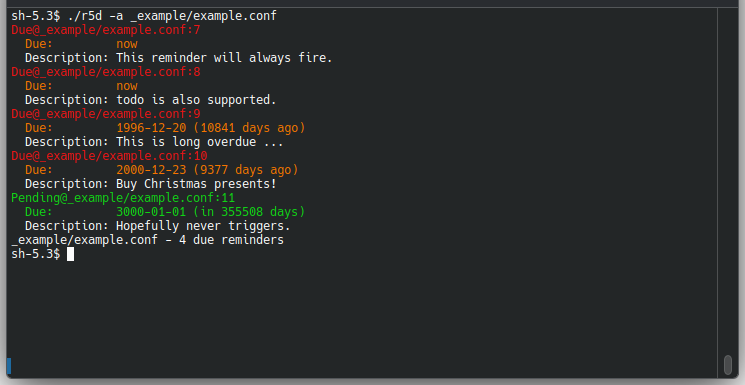
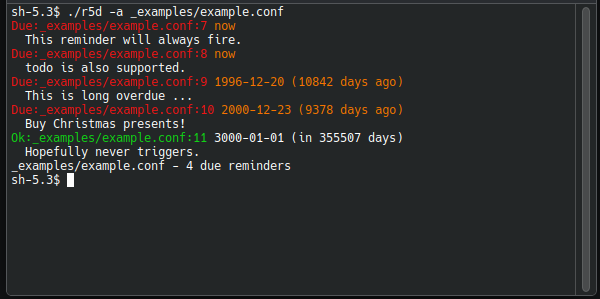
refactor: Shift internal file handling and output
Move the file reading into lib.rs and remove the ignore_binary
function while doing so. Also shift the print function to lib.rs and
change the output format to be more compact.

Changed region(s): [[0.0, 0.0, 1.0, 1.0]]

diff --git a/src/main.rs b/src/main.rs
@@ -1,19 +1,14 @@
 use std::{
-    env, fs,
+    env,
     io::{self},
 };
 
-use r5d::{get_files, is_directory, search_reminders};
+use r5d::{file_search_reminders, get_files, is_directory};
 
-const ANSI_RED: &str = "\u{001b}[31m";
-const ANSI_YELLOW: &str = "\u{001b}[33m";
-const ANSI_GREEN: &str = "\u{001b}[32m";
-const ANSI_RESET: &str = "\u{001b}[0m";
 /* Program configuration */
 struct Config {
     paths: Vec<String>,    // files and directories that should be processed
     recursive: bool,       // search directories recursively
-    ignore_binary: bool,   // Ignore UTF-8 encoding errors (i.e. binary files)
     ignore_noremind: bool, // Ignore the !noremind flag in file
     show_all: bool,        // Show all reminders
 }
@@ -23,7 +18,6 @@ impl Config {
         Config {
             paths: Vec::new(),
             recursive: false,
-            ignore_binary: false,
             ignore_noremind: false,
             show_all: false,
         }
@@ -50,12 +44,7 @@ fn main() {
     }
 
     for filename in filenames.iter() {
-        let dues = process(
-            &filename,
-            config.ignore_binary,
-            config.ignore_noremind,
-            config.show_all,
-        );
+        let dues = process(&filename, config.ignore_noremind, config.show_all);
 
         if dues < 0 {
             // Ignore
@@ -85,46 +74,29 @@ fn main() {
     }
 }
 
-fn process(filename: &str, ignore_binary: bool, ignore_noremind: bool, show_all: bool) -> i32 {
+fn process(filename: &str, ignore_noremind: bool, show_all: bool) -> i32 {
     let mut rings = 0;
-    let contents = match fs::read_to_string(filename) {
-        Ok(contents) => contents,
-        Err(err) => {
-            if ignore_binary && err.kind() == io::ErrorKind::InvalidData {
-                eprintln!("{filename} is not valid UTF-8");
-                return -1;
-            } else {
-                eprintln!("error reading file {filename}");
-                std::process::exit(1);
-            }
-        }
-    };
-    let reminders = match search_reminders(&contents, ignore_noremind) {
+    let reminders = match file_search_reminders(filename, ignore_noremind) {
         Ok(reminders) => reminders,
         Err(err) => {
-            eprintln!("(!!) error in {filename}: {:#?}", err);
+            match err {
+                r5d::ResultError::IOError(err) => {
+                    eprintln!("error reading file {filename}: {err}")
+                }
+                r5d::ResultError::SyntaxError => eprintln!("syntax error in {filename}"),
+                r5d::ResultError::DateformatError => eprintln!("date format error in {filename}"),
+            };
             std::process::exit(1);
         }
     };
 
     for reminder in reminders {
         let due = reminder.is_due();
-        if show_all || due {
-            if due {
-                print!("{}", ANSI_RED);
-                println!("Due@{}:{}", filename, reminder.line);
-                print!("{}", ANSI_YELLOW);
-                println!("  Due:         {}", reminder.due_fmt());
-                rings += 1;
-            } else {
-                print!("{}", ANSI_GREEN);
-                println!("Pending@{}:{}", filename, reminder.line);
-                println!("  Due:         {}", reminder.due_fmt());
-                print!("{}", ANSI_RESET);
-            }
-
-            print!("{}", ANSI_RESET);
-            println!("  Description: {}", reminder.description);
+        if due {
+            rings += 1;
+            reminder.print();
+        } else if show_all {
+            reminder.print();
         }
     }
 
@@ -143,7 +115,6 @@ fn usage() {
     println!("  -h, --help                         Show this help message");
     println!("  -r, --recursive                    Recursive search in directories");
     println!("  -a, --all                          Show all reminders");
-    println!("  -b, --ignore-binary                Ignore UTF-8 reading error, i.e. binary files");
     println!(
         "  -n, --ignore-noremind              Ignore the !noremind flag, i.e. always show all reminders"
     );
@@ -167,7 +138,6 @@ fn parse_arguments(config: &mut Config) {
                 "--recursive" | "-r" => config.recursive = true,
                 "all" | "-a" => config.show_all = true,
                 "--ignore-noremind" | "-n" => config.ignore_noremind = true,
-                "--ignore-binary" | "-b" => config.ignore_binary = true,
                 _ => {
                     eprintln!("invalid argument: {arg}");
                     std::process::exit(1);

diff --git a/src/lib.rs b/src/lib.rs
@@ -9,16 +9,30 @@ use chrono::{DateTime, NaiveDate, NaiveDateTime, Utc};
 const DATETIME_FORMATS: [&str; 2] = ["%Y-%m-%dT%H:%M:%S%z", "%Y-%m-%dT%H:%M:%S"];
 const DATE_FORMATS: [&str; 1] = ["%Y-%m-%d"];
 
+const ANSI_RED: &str = "\u{001b}[31m";
+const ANSI_YELLOW: &str = "\u{001b}[33m";
+const ANSI_GREEN: &str = "\u{001b}[32m";
+const ANSI_WHITE: &str = "\u{001b}[37m";
+const ANSI_RESET: &str = "\u{001b}[0m";
+
 #[derive(Debug)]
 pub enum ResultError {
     SyntaxError,
     DateformatError,
+    IOError(io::Error),
+}
+
+impl From<io::Error> for ResultError {
+    fn from(err: io::Error) -> Self {
+        ResultError::IOError(err)
+    }
 }
 
 #[derive(Debug)]
 pub struct Reminder {
     pub datetime: DateTime<Utc>, // Time the reminder is set to, if present
     pub description: String,     // Reminder string if present
+    pub filename: String,        // File containing the reminder
     pub line: i32,               // Line number that matched
 }
 
@@ -27,6 +41,7 @@ impl Reminder {
         Reminder {
             datetime: Utc::now(),
             description: "".to_string(),
+            filename: "".to_string(),
             line: 0,
         }
     }
@@ -81,6 +96,20 @@ impl Reminder {
         }
         ret
     }
+
+    pub fn print(&self) {
+        if self.is_due() {
+            print!("{}", ANSI_RED);
+            print!("Due:{}:{}", self.filename, self.line);
+            print!(" {}{}", ANSI_YELLOW, self.due_fmt());
+        } else {
+            print!("{}", ANSI_GREEN);
+            print!("Ok:{}:{}", self.filename, self.line);
+            print!(" {}{}", ANSI_WHITE, self.due_fmt());
+        }
+        println!("{}", ANSI_RESET);
+        println!("  {}", self.description);
+    }
 }
 
 /* Attempts to parse a given datetime string by applying various matching patterns. */
@@ -110,7 +139,7 @@ fn parse_datetime(str: &str) -> Option<DateTime<Utc>> {
     return None;
 }
 
-/* Lazy check if a given pathname is a directory */
+/* Check if a given pathname is a directory */
 pub fn is_directory(pathname: &str) -> bool {
     let metadata = match fs::metadata(pathname) {
         Ok(metadata) => metadata,
@@ -121,6 +150,7 @@ pub fn is_directory(pathname: &str) -> bool {
     return metadata.is_dir();
 }
 
+// Get all files from a given path.
 pub fn get_files(pathname: &str, recursive: bool) -> Result<Vec<String>, io::Error> {
     let mut ret: Vec<String> = Vec::new();
 
@@ -130,7 +160,12 @@ pub fn get_files(pathname: &str, recursive: bool) -> Result<Vec<String>, io::Err
         let path = entry.path();
         let fullpath = match path.to_str() {
             Some(path) => path,
-            None => panic!("path encoding error"),
+            None => {
+                return Err(io::Error::new(
+                    io::ErrorKind::InvalidData,
+                    "Path encoding error",
+                ));
+            }
         };
 
         if is_directory(fullpath) {
@@ -144,6 +179,19 @@ pub fn get_files(pathname: &str, recursive: bool) -> Result<Vec<String>, io::Err
     }
 
     return Ok(ret);
+}
+
+/* Searches for reminders in the given file */
+pub fn file_search_reminders(
+    filename: &str,
+    ignore_noremind: bool,
+) -> Result<Vec<Reminder>, ResultError> {
+    let contents = fs::read_to_string(filename)?;
+    let mut reminders = search_reminders(&contents, ignore_noremind)?;
+    for reminder in reminders.iter_mut() {
+        reminder.filename = filename.to_string();
+    }
+    Ok(reminders)
 }
 
 /* Searches for reminders in the given string */
